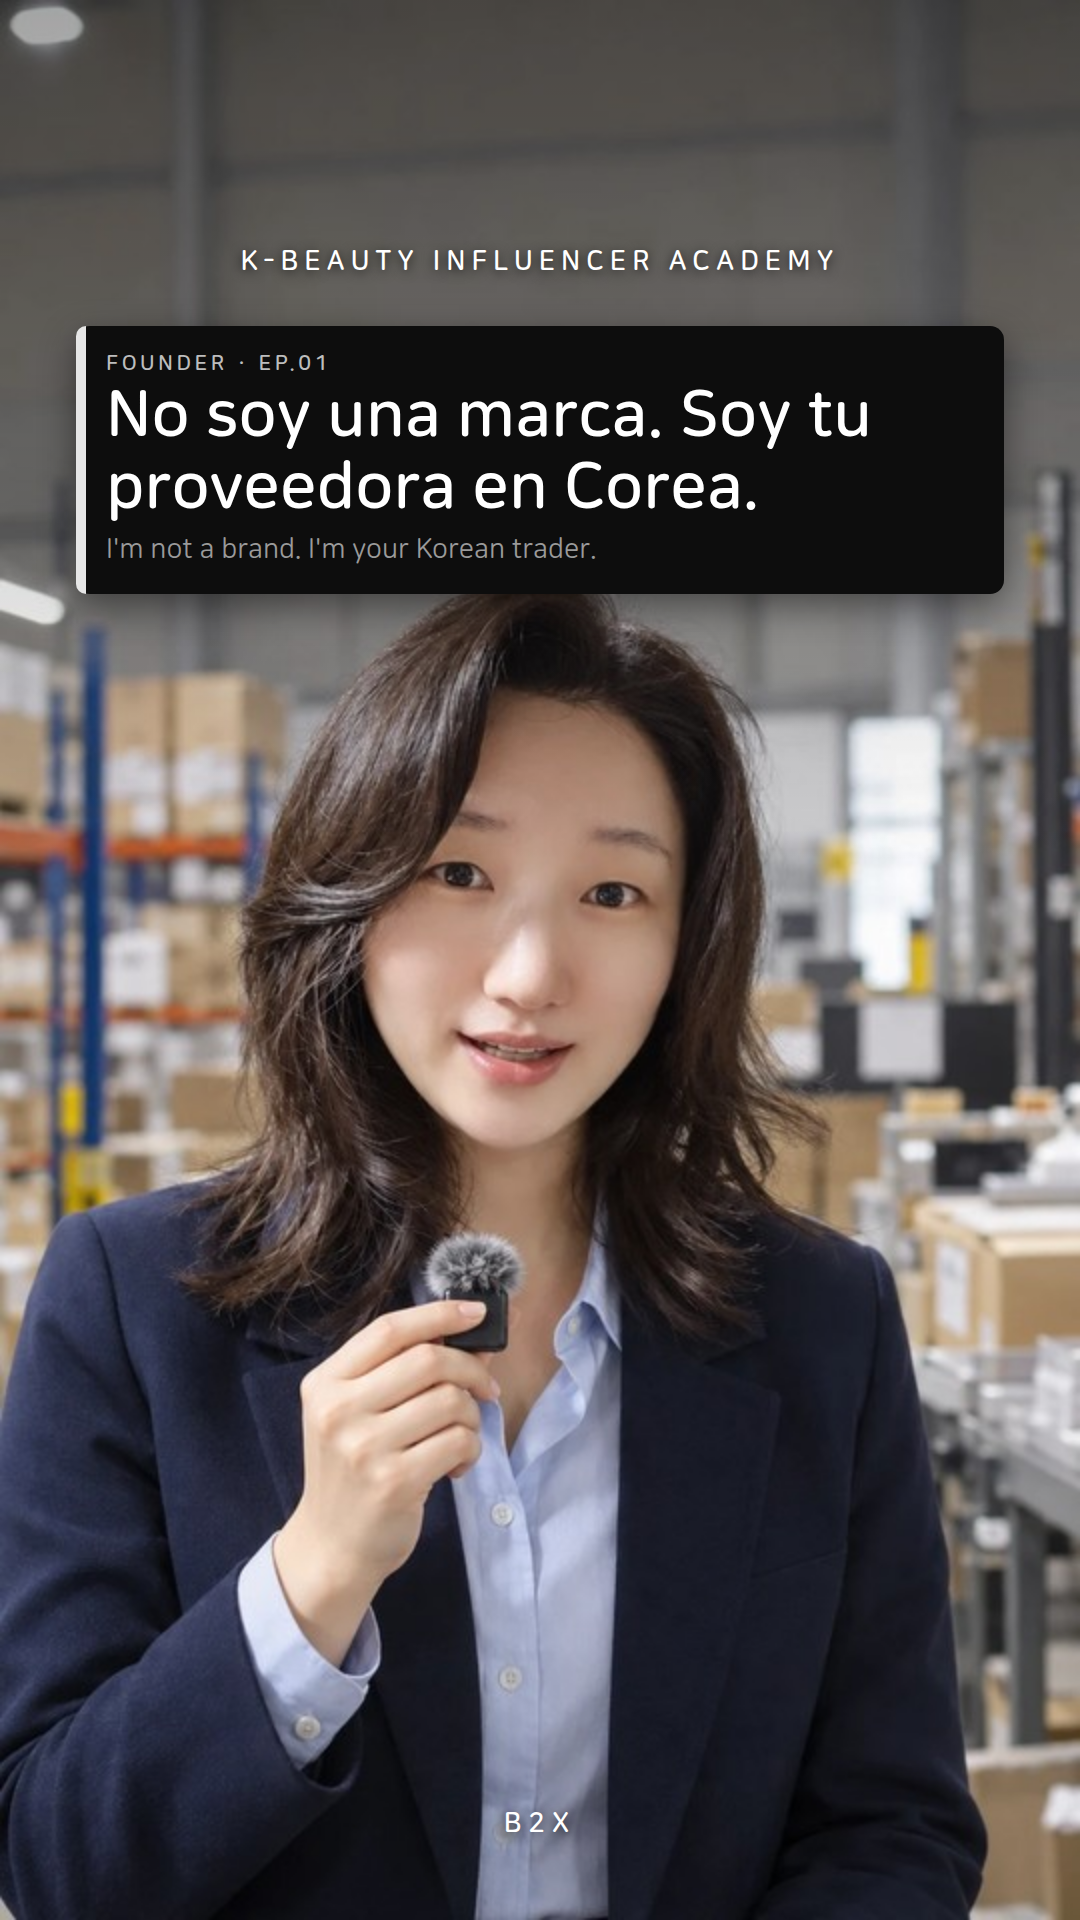
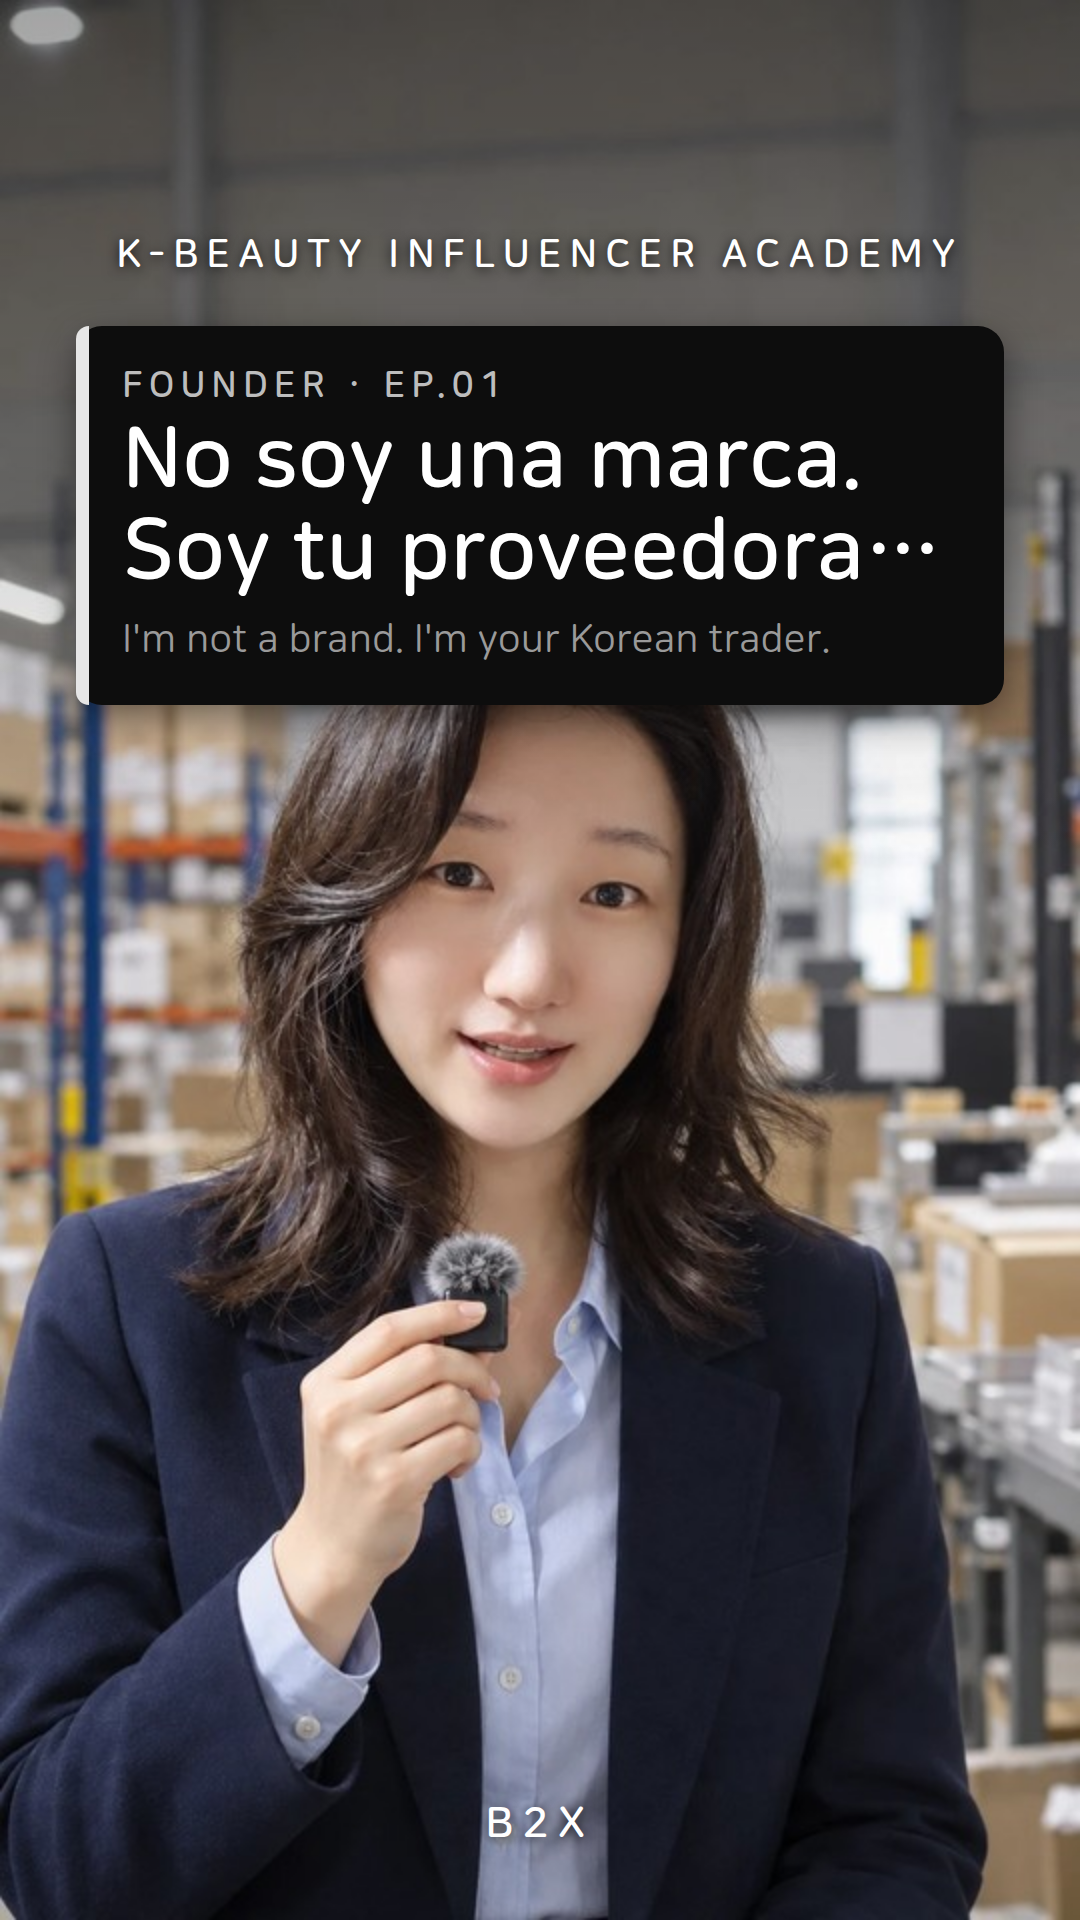
Thumbnail: scale type and card metrics to match approved mock
Claude-Session: https://claude.ai/code/session_01ATPJEhr5p8XnTkwP6j4vWH

diff --git a/b2x-thumbnail/make_thumb.py b/b2x-thumbnail/make_thumb.py
@@ -19,18 +19,18 @@ body{{width:{W}px;height:{H}px;overflow:hidden;background:#000;
 .bg{{position:absolute;inset:0;background:url({bg}) center top/cover no-repeat}}
 .ov{{position:absolute;inset:0;background:linear-gradient(180deg,rgba(0,0,0,.35),rgba(0,0,0,0) 45%)}}
 .academy{{position:absolute;left:0;right:0;top:278px;transform:translateY(-100%);text-align:center;
-  font-weight:700;font-size:27px;letter-spacing:6px;text-transform:uppercase;text-shadow:0 2px 12px rgba(0,0,0,.8)}}
-.card{{position:absolute;left:76px;width:928px;top:326px;box-sizing:border-box;background:#0D0D0D;border-radius:14px;
-  padding:26px 30px 28px;box-shadow:0 12px 36px rgba(0,0,0,.45)}}
-.bar{{position:absolute;left:0;top:0;bottom:0;width:10px;border-radius:14px 0 0 14px;background:{color}}}
-.label{{font-weight:700;font-size:21px;letter-spacing:3.5px;color:#BDBDBD;text-transform:uppercase}}
-.title{{font-weight:700;font-size:64px;line-height:1.12;margin-top:6px;display:-webkit-box;-webkit-line-clamp:2;
+  font-weight:700;font-size:39px;letter-spacing:8px;text-transform:uppercase;text-shadow:0 2px 12px rgba(0,0,0,.8)}}
+.card{{position:absolute;left:76px;width:928px;top:326px;box-sizing:border-box;background:#0D0D0D;border-radius:26px;
+  padding:40px 46px 42px;box-shadow:0 12px 36px rgba(0,0,0,.45)}}
+.bar{{position:absolute;left:0;top:0;bottom:0;width:13px;border-radius:26px 0 0 26px;background:{color}}}
+.label{{font-weight:700;font-size:36px;letter-spacing:6px;color:#BDBDBD;text-transform:uppercase}}
+.title{{font-weight:700;font-size:85px;line-height:1.08;margin-top:10px;display:-webkit-box;-webkit-line-clamp:2;
   -webkit-box-orient:vertical;overflow:hidden}}
-.sub{{font-weight:400;font-size:27px;color:#9A9A9A;margin-top:10px;white-space:nowrap;overflow:hidden;text-overflow:ellipsis}}
-.pip{{position:absolute;right:43px;bottom:336px;width:346px;height:346px;border-radius:50%;border:6px solid #fff;
+.sub{{font-weight:400;font-size:39px;color:#9A9A9A;margin-top:18px;white-space:nowrap;overflow:hidden;text-overflow:ellipsis}}
+.pip{{position:absolute;right:43px;bottom:336px;width:346px;height:346px;border-radius:50%;border:16px solid #fff;
   box-sizing:border-box;background:url({pip}) center/cover;box-shadow:0 12px 32px rgba(0,0,0,.5)}}
 .brand{{position:absolute;left:0;right:0;top:1824px;transform:translateY(-50%);text-align:center;
-  font-weight:700;font-size:27px;letter-spacing:7px;text-shadow:0 2px 12px rgba(0,0,0,.8)}}
+  font-weight:700;font-size:43px;letter-spacing:9px;text-shadow:0 2px 12px rgba(0,0,0,.8)}}
 </style></head><body>
 <div class="bg"></div><div class="ov"></div>
 <div class="academy">{academy}</div>

diff --git a/b2x-thumbnail/THUMBNAIL_SPEC.md b/b2x-thumbnail/THUMBNAIL_SPEC.md
@@ -23,32 +23,32 @@
 
 ### 아카데미 라인
 - 텍스트: `K-BEAUTY INFLUENCER ACADEMY` (대문자 고정)
-- 위치: 가로 중앙, 글자 **아래 끝 y = 278** (그리드 크롭 경계 288 바로 위, 10px 여유). 글자 범위 약 y 251~278. 틱톡 상단 탭(약 y 60~115)과는 멀리 떨어진다.
-- 폰트: Bold **27px**, 자간 **6px**, 흰색, 그림자 `0 2px 12px rgba(0,0,0,.8)`
+- 위치: 가로 중앙, 글자 **아래 끝 y = 278** (그리드 크롭 경계 288 바로 위, 10px 여유). 글자 범위 약 y 239~278. 틱톡 상단 탭(약 y 60~115)과는 멀리 떨어진다.
+- 폰트: Bold **39px**, 자간 **8px**, 흰색, 그림자 `0 2px 12px rgba(0,0,0,.8)`
 - 그리드 크롭 밖(데드존)이라 프로필 그리드에서는 보이지 않고, 릴스 재생 화면에서만 보인다. 틱톡 탭 바와 겹치지 않는다.
 
 ### 제목 카드
 - 박스: **x 76 → 1004** (좌우 7% 동일 여백, 폭 928), **top y = 326** (17%). 높이는 내용에 맞춤.
-- 배경 `#0D0D0D`, 모서리 **14px**, 그림자 `0 12px 36px rgba(0,0,0,.45)`
-- 안쪽 여백: 상 **26** / 좌우 **30** / 하 **28**
-- 왼쪽 세로 색 바: 폭 **10px**, 카드 전체 높이, 카테고리 색 (아래 표)
-- 라벨: `CLASS 3 · HOT ITEM · EP.17` 형식. Bold **21px**, 자간 **3.5px**, 색 `#BDBDBD`, 대문자
-- 제목(스페인어): Bold **64px**, 행간 1.12, **최대 2줄** (넘치면 문구를 줄인다, 폰트 축소 금지), 흰색
-- 보조(영문): Regular **27px**, 색 `#9A9A9A`, **1줄**, 라벨과 제목 사이 간격 6, 제목과 보조 사이 10
+- 배경 `#0D0D0D`, 모서리 **26px**, 그림자 `0 12px 36px rgba(0,0,0,.45)`
+- 안쪽 여백: 상 **40** / 좌우 **46** / 하 **42**
+- 왼쪽 세로 색 바: 폭 **13px**, 카드 전체 높이, 카테고리 색 (아래 표)
+- 라벨: `CLASS 3 · HOT ITEM · EP.17` 형식. Bold **36px**, 자간 **6px**, 색 `#BDBDBD`, 대문자
+- 제목(스페인어): Bold **85px**, 행간 1.08, **최대 2줄** (넘치면 문구를 줄인다, 폰트 축소 금지), 흰색
+- 보조(영문): Regular **39px**, 색 `#9A9A9A`, **1줄**, 라벨과 제목 사이 간격 10, 제목과 보조 사이 18
 - 3:4 그리드 크롭 경계(y = 288)보다 아래에 있어 그리드에서 잘리지 않는다.
 
 ### 대표 PiP (아카데미 16편만)
 - 원형 지름 **346px** (화면 폭 32%)
 - 위치: 오른쪽 끝에서 **43px** (4%), 아래 끝에서 **336px** (17.5%)
   → 원 bounding box: x 691 → 1037, y 1238 → 1584
-- 테두리 흰색 **6px**, 그림자 `0 12px 32px rgba(0,0,0,.5)`
+- 테두리 흰색 **16px**, 그림자 `0 12px 32px rgba(0,0,0,.5)`
 - 이미지: `assets/ceo_circle.png` (정세연 X, **윤채원 대표**. 목선·카라까지 보이게 정사각 크롭)
 - 그리드 하단 크롭 경계(y = 1632)보다 위라 잘리지 않는다.
 - 실제 영상에서는 이 자리에 대표 설명 영상이 원형 마스크로 들어간다.
 
 ### 하단 브랜드
 - 텍스트 `B2X`, 가로 중앙, 세로 중심 **y = 1824** (하단 5%)
-- Bold **27px**, 자간 **7px**, 흰색, 그림자 동일
+- Bold **43px**, 자간 **9px**, 흰색, 그림자 동일
 - 데드존 안. 그리드에서는 잘린다.
 
 ---
